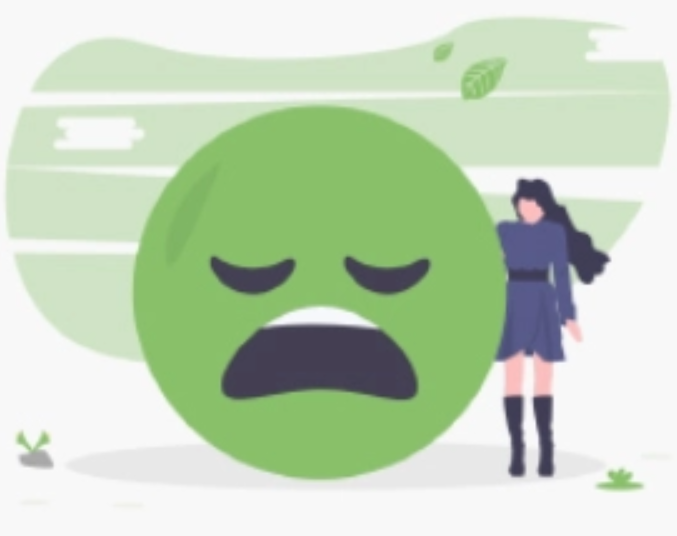
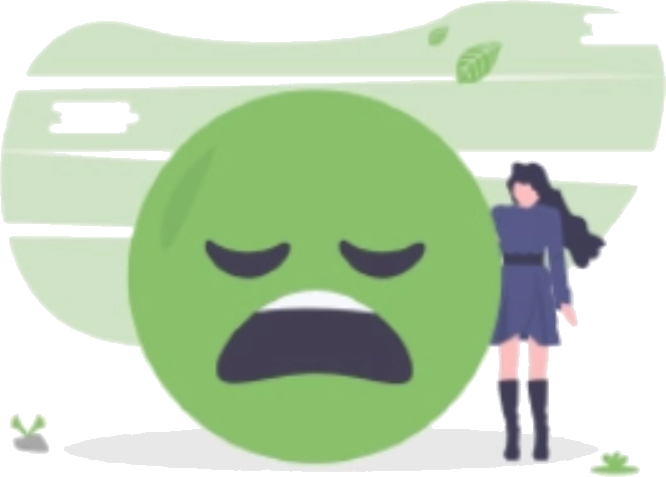
final design classes implemented+transparent image

diff --git a/css/main.css b/css/main.css
@@ -6,55 +6,61 @@ body {
 header {
     display: inline-block;
     width: 800px;
-    margin-top: 20px;
+    margin-left: calc((100% - 800px) / 2);
+    margin-bottom: 30px;
 }
 
 header > img {
     float: left;
     height: 50px;
-    margin-bottom: 40px;
-    margin-left: 30px;
 }
 
 nav {
     float: right;
     margin-top:  7px;
-    margin-right: 40px;
 }
 
 a {
     float: left;
-    padding: 5px;
-    padding-left: 13px;
-    padding-right: 13px;
+    padding: 3px;
+    padding-left: 10px;
+    padding-right: 10px;
     color: #9E9E9E;
-    font-size: 20px;
+    font-size: 17px;
     text-decoration: none;
-    border-radius: 25%;
+    border-radius: 18px;
+    border: 5px solid transparent;
+    line-height: 20px;
 }
 
-#signIn {
+.signin {
     border-color: #9E9E9E;
-    border: 3px solid;
-    margin-left: 30px;
+    text-transform: uppercase;
+    margin-left: 15px;
+}
+
+main {
+    display: inline-block;
+    width: 800px;
+    margin-left: calc((100% - 800px) / 2);;
 }
 
 div {
     float: left;
-    text-align: center;
-    font-size: 100px;
-    color: #9E9E9E;
-    width: 40%;
-    margin-left: 10%;
+    width: 45%;
+    margin-top: 30px;
 }
 
 h1 {
-    margin-top: 60px;
-    margin-bottom: 0;
+    margin: 0;
+    font-size: 100px;
+    color: #9E9E9E;
 }
 
 p {
-    font-size: 28px;
+    font-size: 32px;
+    margin: 0;
+    color: #b6b6b6;
 }
 
 main > img {

diff --git a/index.html b/index.html
@@ -8,24 +8,23 @@
     <link rel="stylesheet" href="./css/main.css">
 </head>
 <body>
-    <header style="width: 100%; display: inline-block;">
+    <header>
         <img src="./img/logo.png  " alt="Green logo">
         <nav>
             <a href="#">Home</a>
             <a href="#">Tracks</a>
             <a href="#">Library</a>
             <a href="#">Community</a>
-            <a id="signIn" href="#">Sign in</a>
+            <a class="signin" >Sign in</a>
         </nav>
     </header>
     <main>
         <div>
             <h1>404</h1>
-            <p>Lorem, ipsum dolor sit amet consectetur adipisicing elit. Assumenda, earum?</p>
+            <p>The link is broken or the page has been moved.</p>
         </div>
         <img src="./img/mergaite.png" alt="Mergaite su skeciu">
     </main>
     
 </body>
 </html>
-<!-- aksmfkasklfma-->
